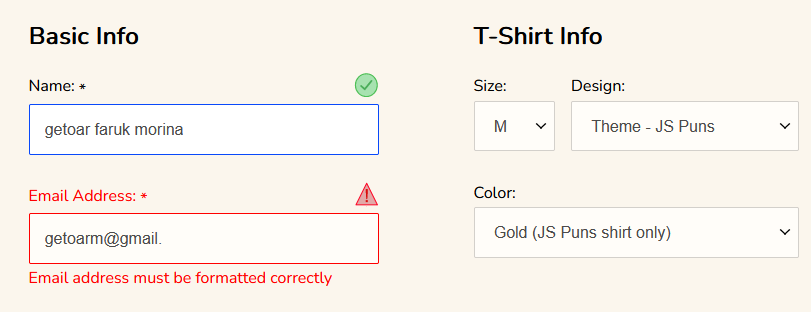
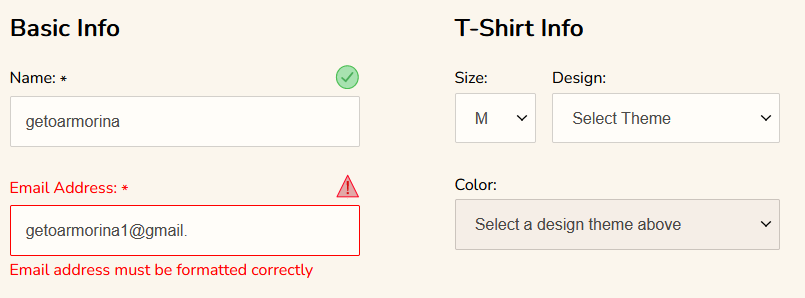
Image Update on Readme

diff --git a/README.md b/README.md
@@ -11,8 +11,8 @@ Testing real time validation with regular expressions
 
 ![Page Screen](/img/Screenshot_1.png)
 
-The USERNAME input field tests that there is at least a first name containing only letters, and allows for a middle and last name<br />
-/^[a-zA-Z]+ ?[a-zA-Z]*? ?[a-zA-Z]*?$/
+The USERNAME input field tests that there is at least a first name containing only letters, and does not allow spaces<br />
+/^[A-Za-z]+$/
 
 The EMAIL input field tests that email is validly formatted.<br />
 /^[^@]+@[^@.]+\.[a-z]+$/i
